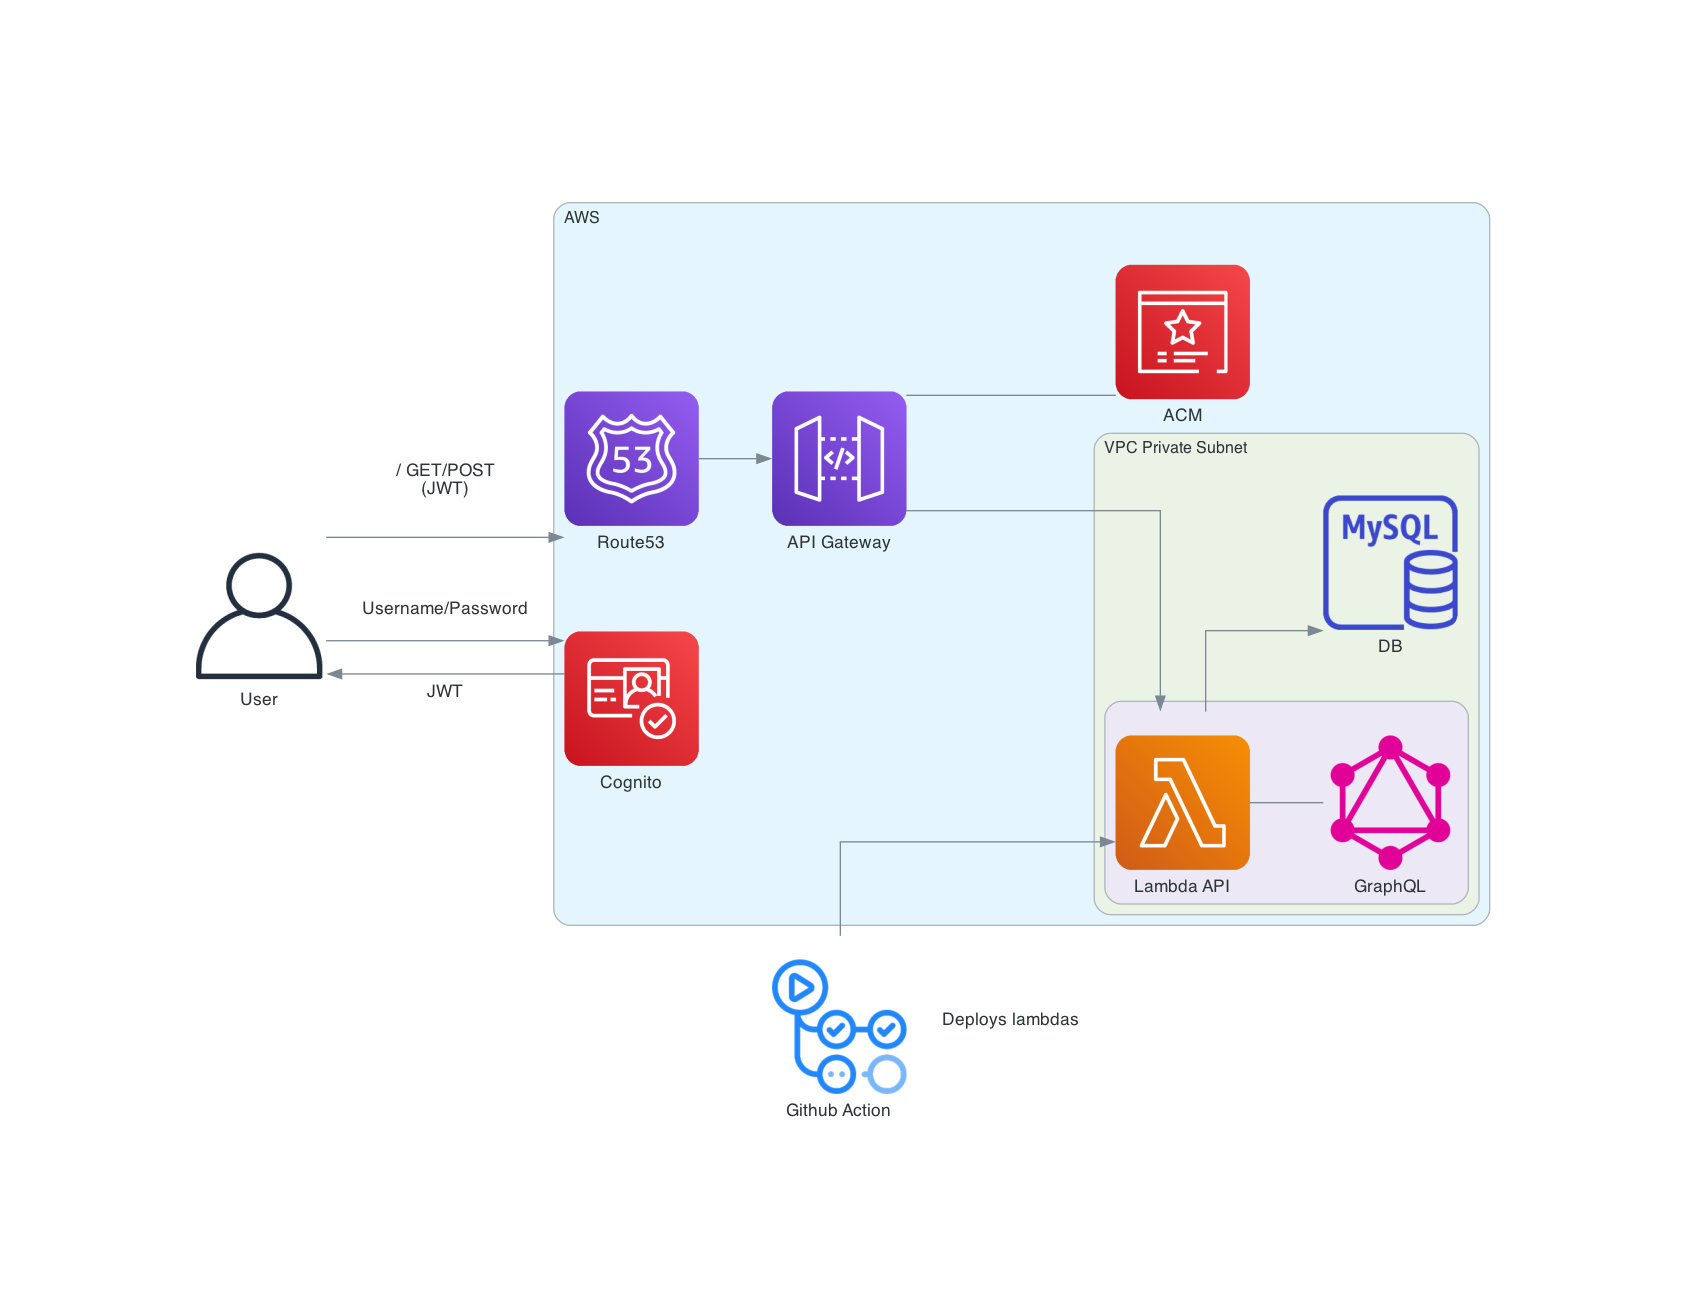
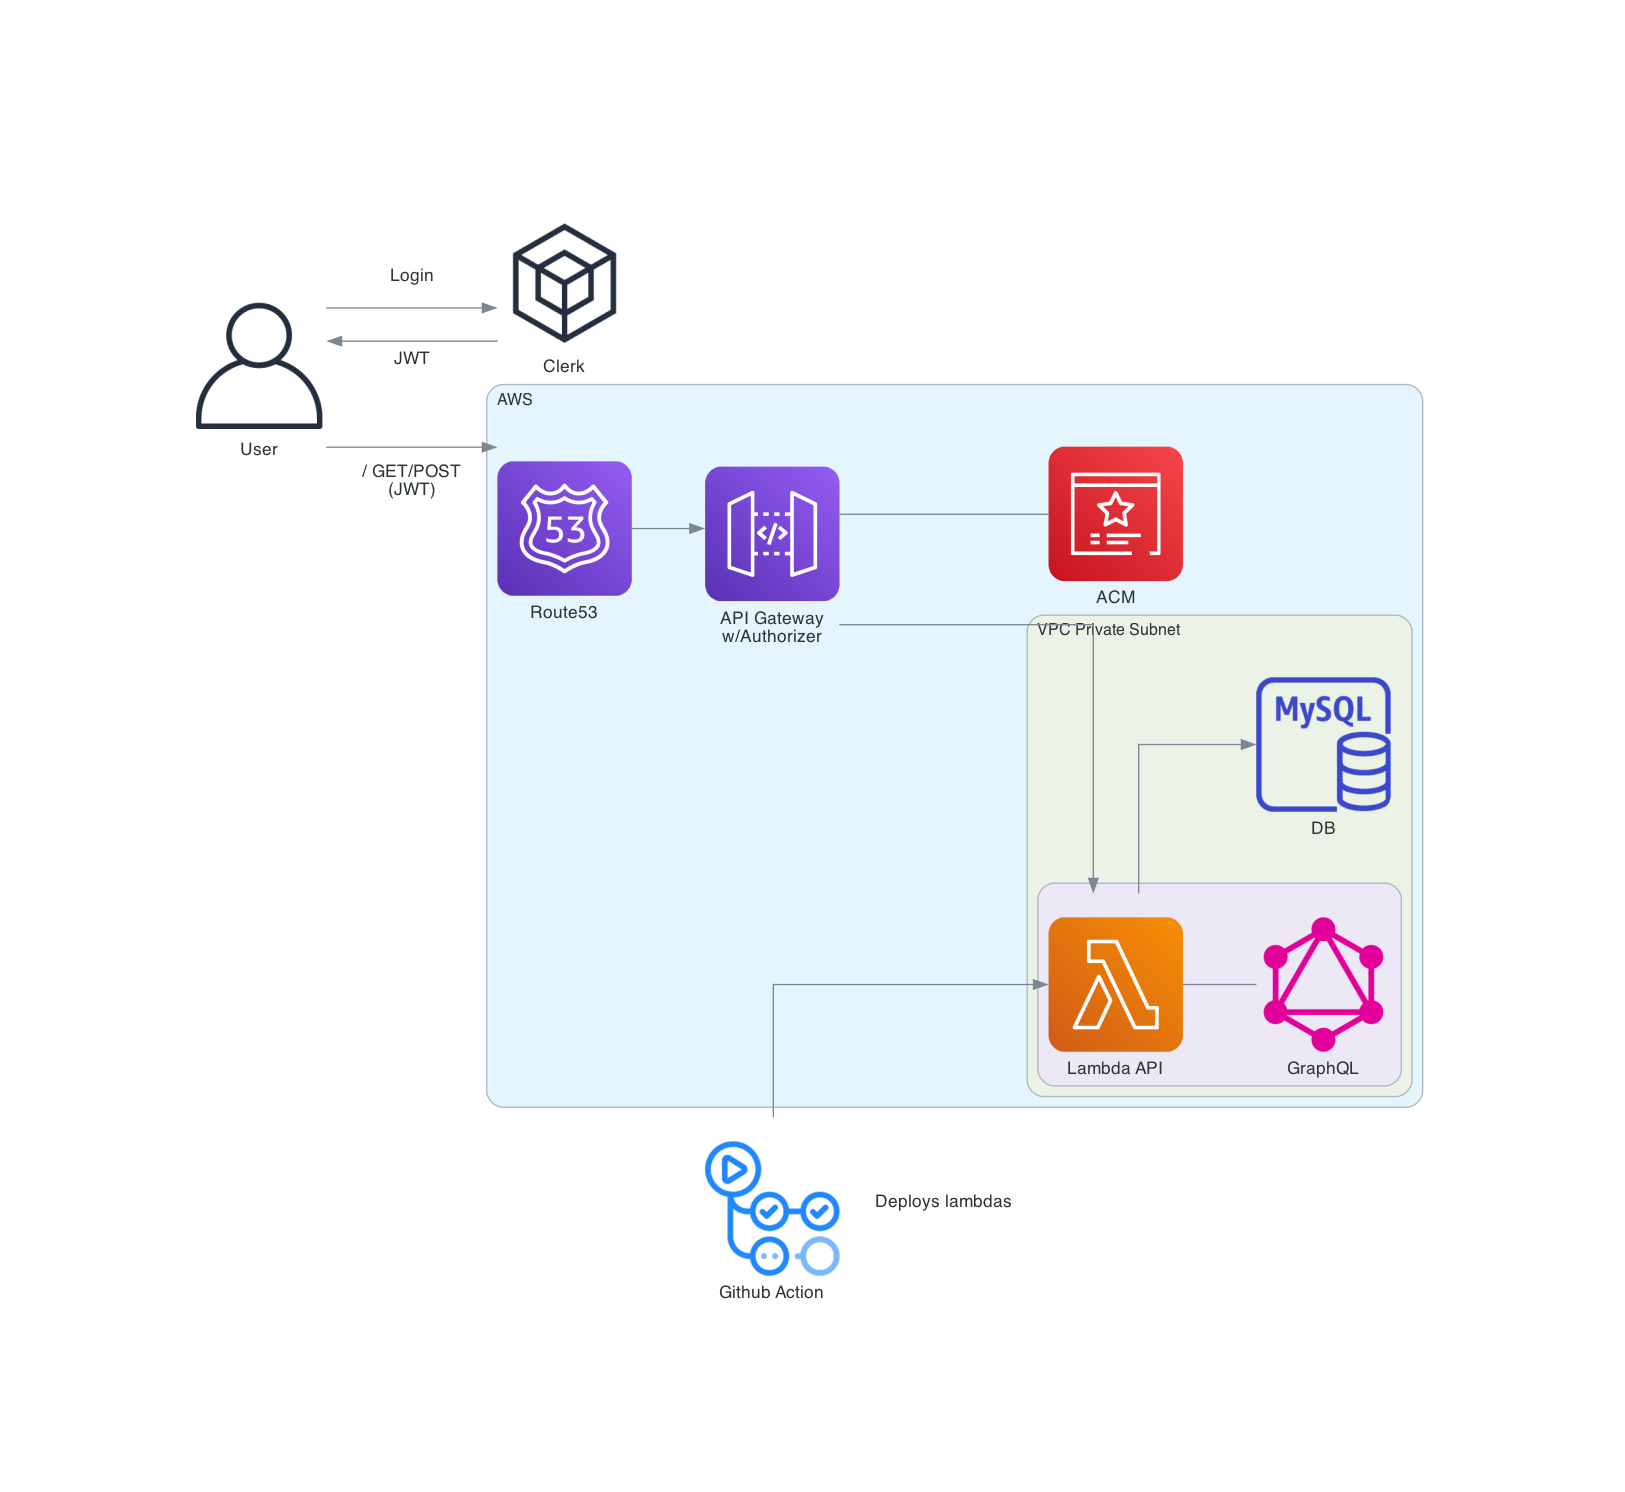
diagrams: Add clerk

diff --git a/diagrams/backend_diagram.py b/diagrams/backend_diagram.py
@@ -8,17 +8,18 @@ from diagrams.aws.database import RDSMysqlInstance
 from diagrams.aws.network import Route53, APIGateway
 from diagrams.onprem.ci import GithubActions
 from diagrams.programming.framework import GraphQL
+from diagrams.aws.general import SDK
 
 with Diagram("", filename="backend_diagram", outformat="png"):
     user = User("User")
     github_action = GithubActions("Github Action")
+    clerk = SDK("Clerk")
 
     with Cluster("AWS"):
         route_53 = Route53("Route53")
-        cognito_userpool = Cognito("Cognito")
 
         # s3 = S3("DB Migrations")
-        api = APIGateway("API Gateway")
+        api = APIGateway("API Gateway\nw/Authorizer")
         api - ACM("ACM")
 
         with Cluster("VPC Private Subnet"):
@@ -36,8 +37,8 @@ with Diagram("", filename="backend_diagram", outformat="png"):
         # s3 >> Edge(label="Object Updated") >> Eventbridge("EventBridge Rule") >> lambda_db
 
     user >> Edge(label="/ GET/POST\n(JWT)") >> route_53 >> api
-    user >> Edge(label="Username/Password") >> cognito_userpool
-    user << Edge(label="JWT") << cognito_userpool
+    user << Edge(label="Login") << clerk
+    user >> Edge(label="JWT") >> clerk
 
     github_action >> Edge(label="Deploys lambdas") >> lambda_api
     # github_action >> Edge(label="Syncs migration files") >> s3
